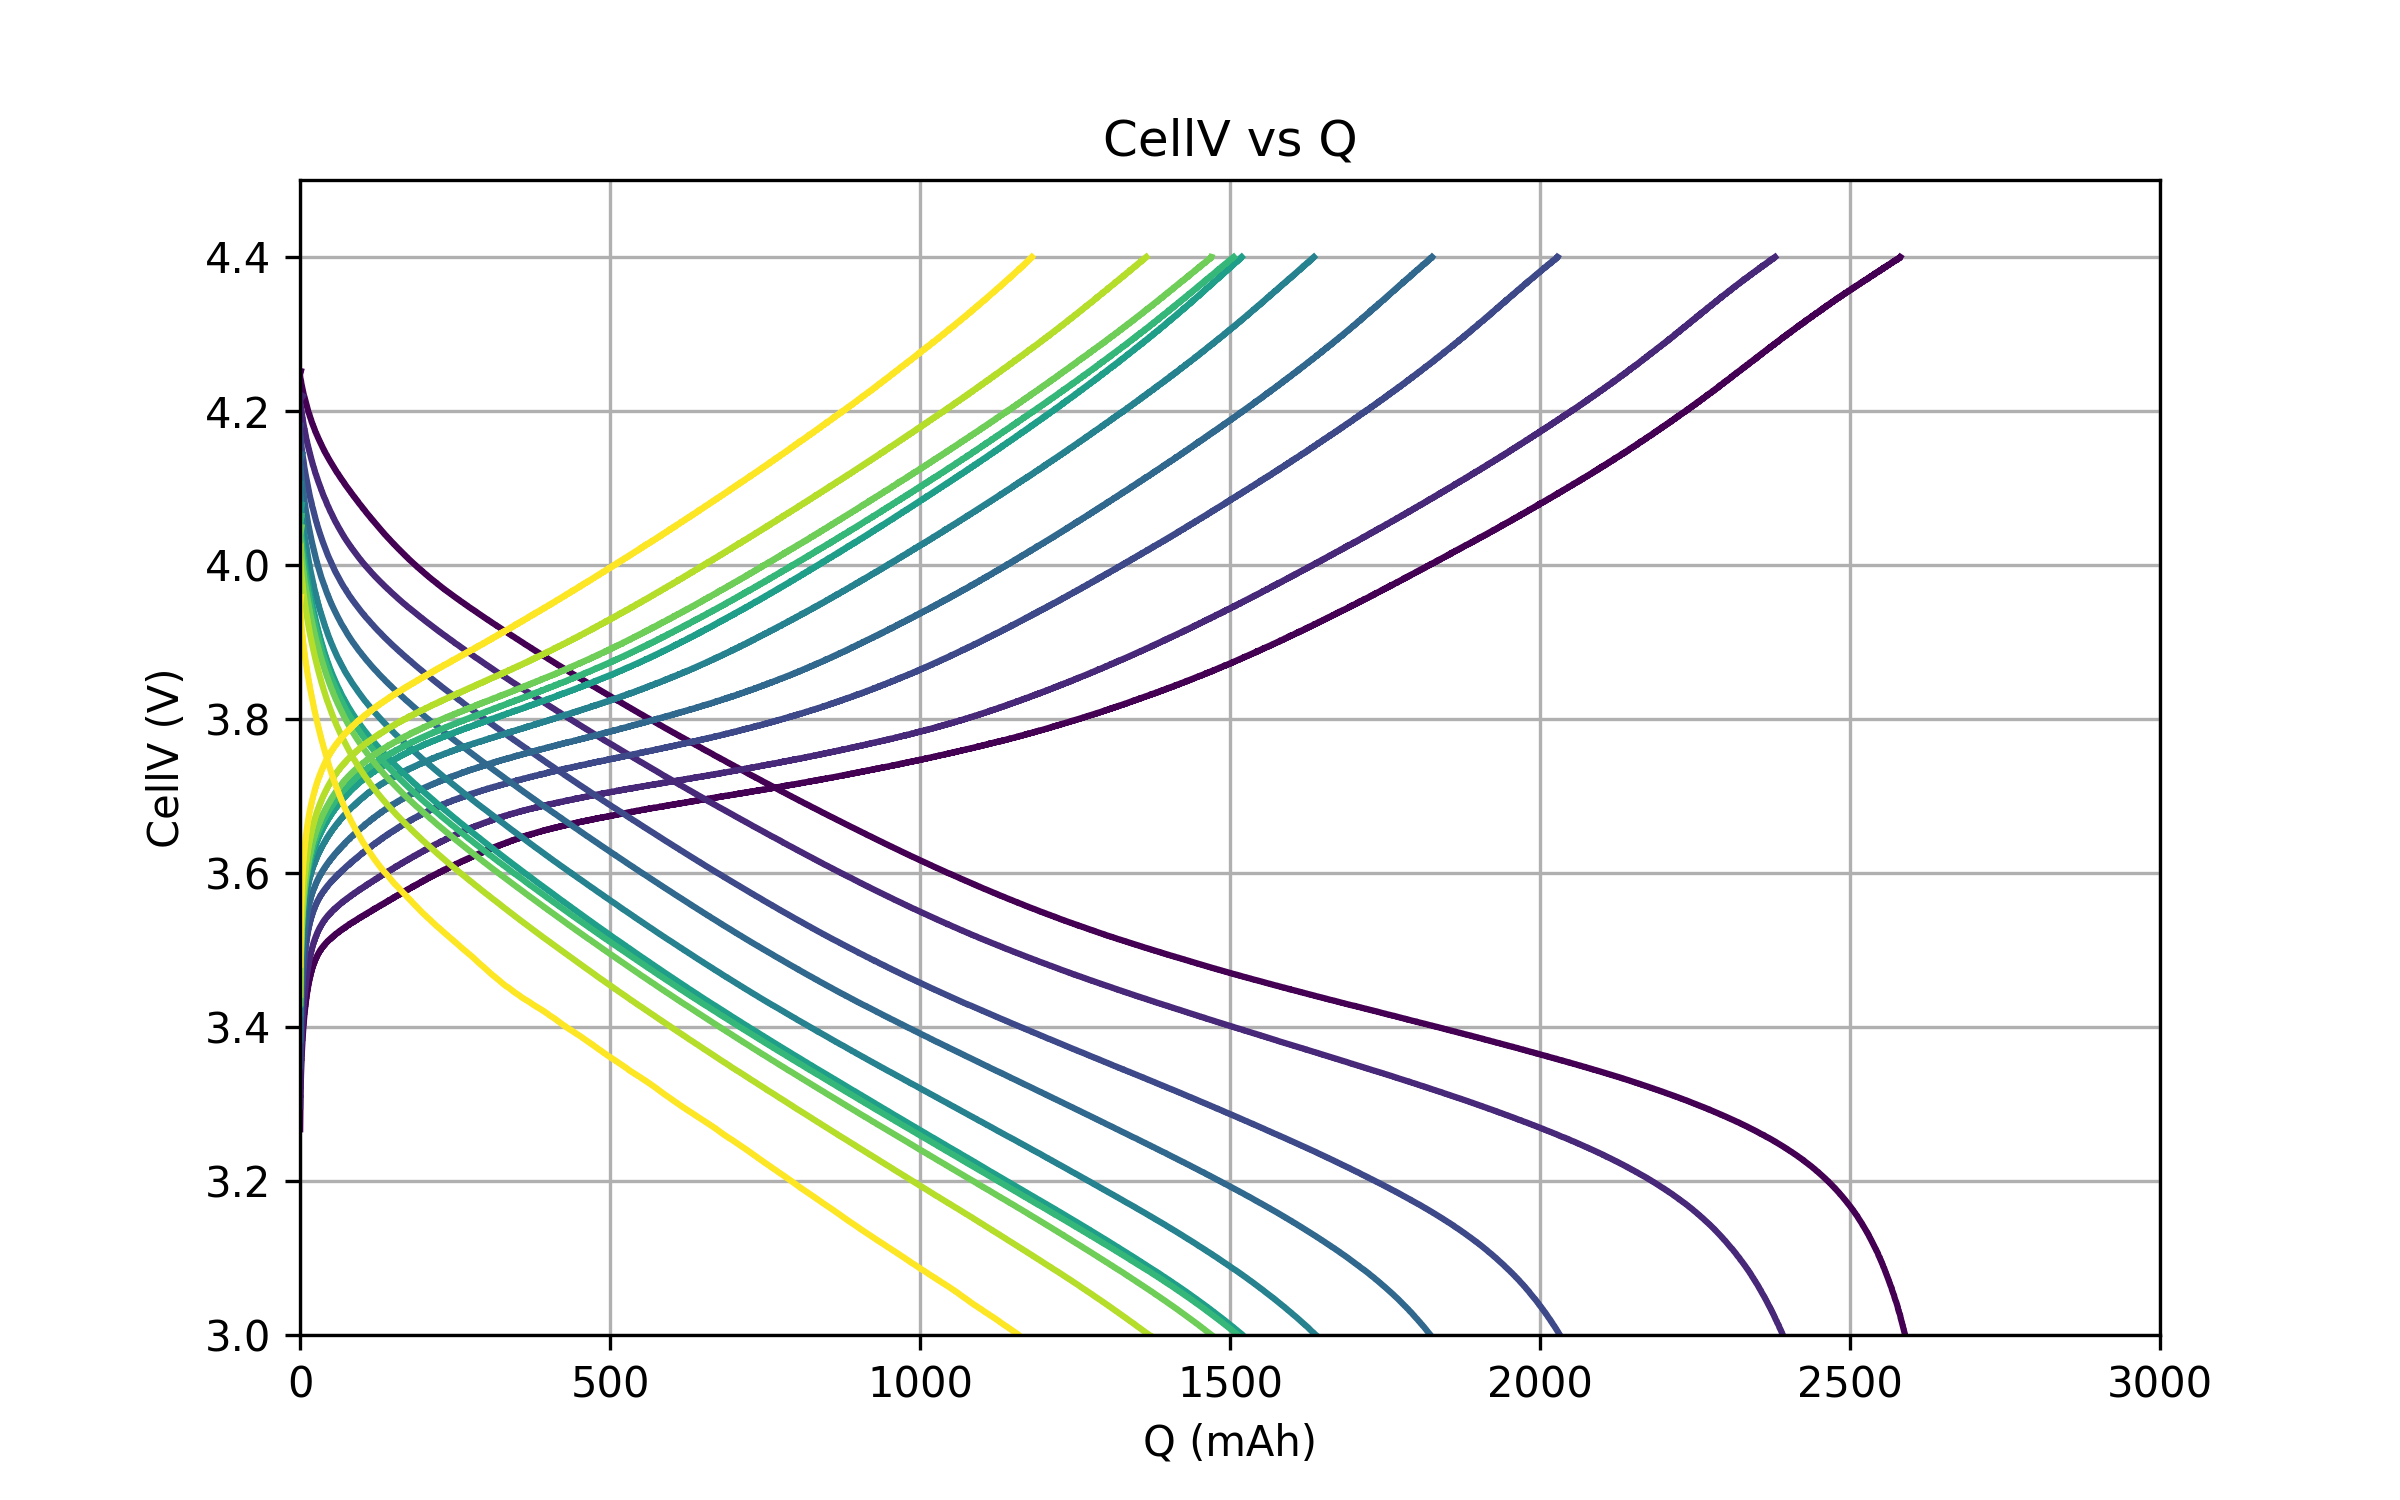
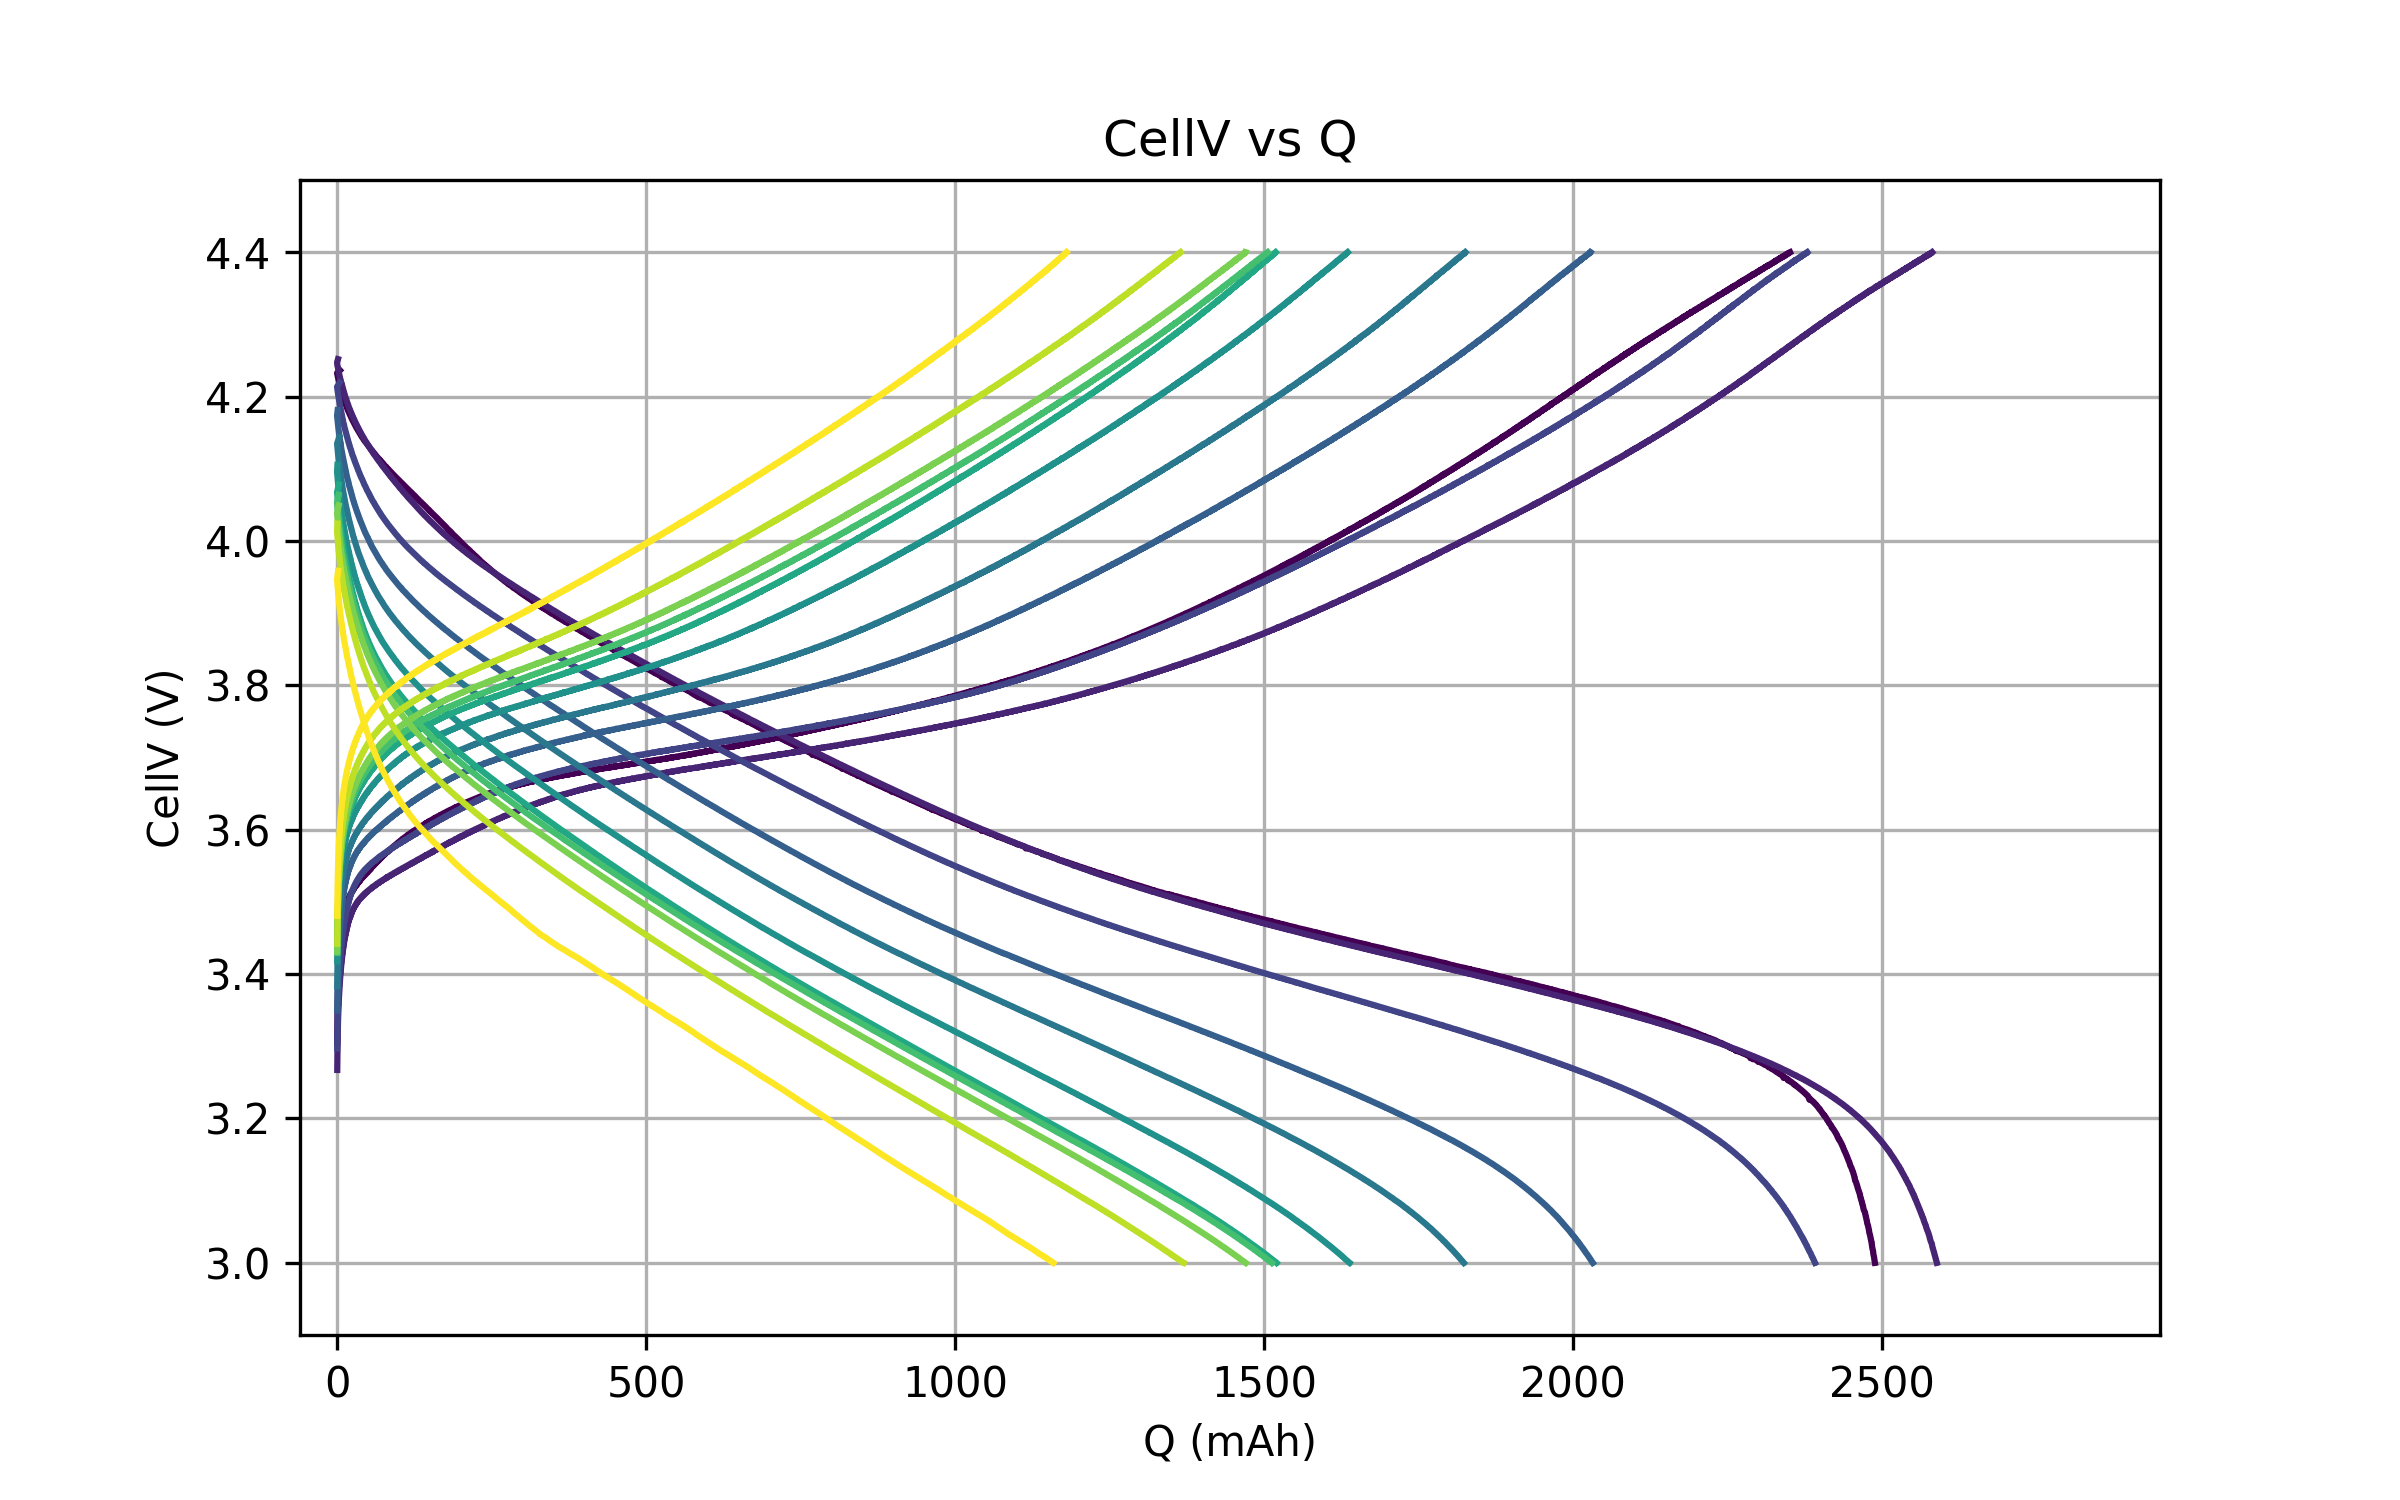
graficos cuadro grande

diff --git a/funciones_ic.py b/funciones_ic.py
@@ -35,17 +35,18 @@ def carga_y_procesa_datos(input_file):
 
     dict_ciclos = {ciclo: grupo.reset_index(drop=True) for ciclo, grupo in df.groupby('#Cycle')}
     dict_ciclos_sep = {}
-    cols = ['Time', 'Current', 'CellV', 'dCapacity/dCellV']
+    cols = ['Time', 'Current', 'CellV', 'dCapacity/dCellV', 'dCellV/dCapacity']
     
     for ciclo, grupo in df.groupby('#Cycle'):
         df_ch = grupo[grupo['filename'].str.contains('Charging')][cols].reset_index(drop=True)
         df_dis = grupo[grupo['filename'].str.contains('Discharging')][cols].reset_index(drop=True)
         
         for df_temp in [df_ch, df_dis]:
-            df_temp['Time'] = df_temp['Time'].str.replace(',', '.', regex=False).astype(float)
-            df_temp['Current'] = df_temp['Current'].str.replace(',', '.', regex=False).astype(float)
-            df_temp['CellV'] = df_temp['CellV'].str.replace(',', '.', regex=False).astype(float)
-            df_temp['dCapacity/dCellV'] = df_temp['dCapacity/dCellV'].str.replace(',', '.', regex=False).astype(float)
+            df_temp['Time'] = df_temp['Time'].str.replace(',', '.', regex=False).astype(float) # hour
+            df_temp['Current'] = df_temp['Current'].str.replace(',', '.', regex=False).astype(float) # mA
+            df_temp['CellV'] = df_temp['CellV'].str.replace(',', '.', regex=False).astype(float) # V
+            df_temp['dCapacity/dCellV'] = df_temp['dCapacity/dCellV'].str.replace(',', '.', regex=False).astype(float) # mAh/V
+            df_temp['dCellV/dCapacity'] = df_temp['dCellV/dCapacity'].str.replace(',', '.', regex=False).astype(float) # V/mAh
             df_temp['Q'] = df_temp['Time'] * (abs(df_temp['Current'])) # mAh #/ 3600
           
         dict_ciclos_sep[ciclo] = {'Ch': df_ch, 'Dis': df_dis}
@@ -53,6 +54,20 @@ def carga_y_procesa_datos(input_file):
     indices_ciclos = list(dict_ciclos.keys())
     print(f"Total de ciclos encontrados: {len(indices_ciclos)}")
     print(f"Ciclos disponibles: {indices_ciclos}")
+    
+    # Imprimir ejemplos de los DataFrames de carga y descarga
+    df_ch = dict_ciclos_sep[indices_ciclos[15]]['Ch']
+    df_dis = dict_ciclos_sep[indices_ciclos[15]]['Dis']
+    print('df_ch:')
+    print(df_ch.shape)
+    print(df_ch.head())
+    print(df_ch.iloc[500:505])
+    print(df_ch.tail())
+    print('df_dis:')
+    print(df_dis.shape)
+    print(df_dis.head())
+    print(df_dis.iloc[500:505])
+    print(df_dis.tail())
 
     return dict_ciclos, dict_ciclos_sep, indices_ciclos
 
@@ -91,7 +106,7 @@ def guardar_ciclos_en_dat(dict_ciclos_sep, carpeta_salida='ciclos_dat'):
 
 def plot_n_cycles(indices_ciclos, dict, x, y, nombre_grafico='plot', scatter=False):
     '''
-    x,y = 'Time', 'CellV', 'dCapacity/dCellV', 'Q'
+    x,y = 'Time', 'CellV', 'dCapacity/dCellV', 'dCellV/dCapacity' 'Q'
 
     dict es:  
         dict_ciclos_sep = {ciclo: {'Ch': df_ciclo_ch, 'Dis': df_ciclo_dis}} 
@@ -146,23 +161,27 @@ def plot_n_cycles(indices_ciclos, dict, x, y, nombre_grafico='plot', scatter=Fal
     #cbar = plt.colorbar(sm, ax=plt.gca(), ticks=indices_ciclos[::2])
     #cbar.set_label('Cycle number')
 
-    x_string = x.replace('dCapacity/dCellV', 'dQdV') if x == 'dCapacity/dCellV' else x
-    y_string = y.replace('dCapacity/dCellV', 'dQdV') if y == 'dCapacity/dCellV' else y
+    x_string = 'dQdV' if x == 'dCapacity/dCellV' else 'dVdQ' if x == 'dCellV/dCapacity' else x
+    y_string = 'dQdV' if y == 'dCapacity/dCellV' else 'dVdQ' if y == 'dCellV/dCapacity' else y
     
     labels_con_unidades = {
         'Time': 'Time (hour)',
         'Q': 'Q (mAh)',
         'CellV': 'CellV (V)',
-        'dCapacity/dCellV': 'dQdV',
+        'dCapacity/dCellV': 'dQdV (mAh/V)',
+        'dCellV/dCapacity': 'dVdQ (V/mAh)',
         'Current': 'Current (A)',
         }
 
     x_label = labels_con_unidades.get(x, x)
     y_label = labels_con_unidades.get(y, y)
     
-
-    plt.ylim(3,4.5)
-    plt.xlim(0,3000)
+    #plt.ylim(-0.002,0.002) # para dV/dQ charge
+    #plt.ylim(0,0.002) # para dV/dQ charge
+    #plt.ylim(-0.002,0) # para dV/dQ discharge
+    #plt.xlim(0,3000)
+    plt.ylim(2.9,4.5)
+    plt.xlim(-60,2950)
     plt.xlabel(f'{x_label}')
     plt.ylabel(f'{y_label}')
     plt.title(f'{y} vs {x}')

diff --git a/IC_plots-simples.py b/IC_plots-simples.py
@@ -14,7 +14,7 @@ import matplotlib.colors as mcolors
 import funciones_ic as f
 
 # %% ------- Cargar ciclos ------------------------------------------------------------
-input_folder = Path('/home/mariajose/proc-icdv/data-proc')
+input_folder = Path('/home/mariajose/proc-icdv/tmp')
 nombre_archivo = "NMC-20"
 output_folder = Path('/home/mariajose/proc-icdv/output')
 output_folder.mkdir(parents=True, exist_ok=True)  # Create output directory if it doesn't exist
@@ -28,6 +28,7 @@ dict_ciclos_sep = {
     }
     for ciclo, etapas in raw_dict.items()
 }
+
 
 indices_ciclos = list(dict_ciclos_sep.keys())
 
@@ -60,10 +61,16 @@ print("Ciclos hasta 200:", seleccion_200)
 #ciclos_reducidos = [3, 21, 78, 153, 228, 303, 378, 453, 528, 603, 678, 753, 828]
 #ciclos_seleccionados = [2, 99, 192, 300, 414, 504, 600, 702, 801, 897]
 ciclos_seleccionados = [2, 21, 99, 198, 297, 396, 498, 597, 696, 795, 897]
-ciclos_seleccionados = [21, 99, 198, 297, 396, 498, 597, 696, 795, 897]
+ciclos_seleccionados = [2,21, 99, 198, 297, 396, 498, 597, 696, 795, 897]
 
 # %% ------- Plots -----------------------------------------------------------------------
 
+print(dict_ciclos_sep[ciclos_seleccionados[0]]['Ch'].columns)
+
+df_ch = dict_ciclos_sep[ciclos_seleccionados[0]]['Ch']
+df_dis = dict_ciclos_sep[ciclos_seleccionados[0]]['Dis']
+
+print(df_ch.head())
 #f.plot_n_cycles(ciclos_seleccionados, dict_ciclos_sep, 'Time', 'CellV', nombre_grafico=nombre_archivo)#+'scatter')
 
 #f.plot_n_cycles_withCurrent(ciclos_seleccionados, dict_ciclos_sep, 'Time', 'CellV', nombre_grafico=nombre_archivo)#+'scatter')
@@ -76,6 +83,8 @@ f.plot_n_cycles(ciclos_seleccionados, dict_ciclos_sep, 'Q', 'CellV', nombre_graf
 #f.plot_n_cycles(ciclos_seleccionados, dict_ciclos_sep, 'CellV', 'Q', nombre_grafico=nombre_archivo)#+'scatter')
 
 #f.plot_n_cycles(ciclos_seleccionados, dict_ciclos_sep, 'CellV', 'dCapacity/dCellV', nombre_grafico=nombre_archivo)#+'scatter')
+
+#f.plot_n_cycles(ciclos_seleccionados, dict_ciclos_sep, 'Q', 'dCellV/dCapacity', nombre_grafico=nombre_archivo)#+'scatter')
 
 # %% ------- 10. Plot SoH ---------------------------------------------------------------------
 

diff --git a/IC_data-to-json.py b/IC_data-to-json.py
@@ -13,8 +13,8 @@ import funciones_ic as f
 
 # Datos editables
 input_folder = Path('/home/mariajose/proc-icdv/data')
-input_file = input_folder / "NMC_20C_cada3.txt"
-output_folder = Path('/home/mariajose/proc-icdv/data-proc')
+input_file = input_folder / "NMC_20C_cada3_dvdq.txt"
+output_folder = Path('/home/mariajose/proc-icdv/tmp')
 output_folder.mkdir(parents=True, exist_ok=True)  # Create output directory if it doesn't exist
 
 nombre_archivo = 'NMC-20'
